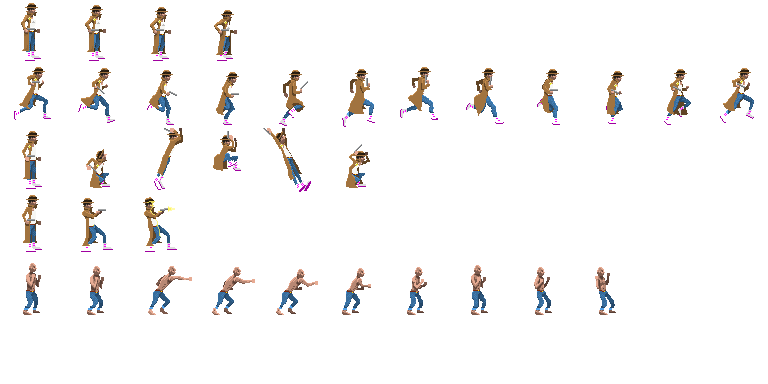
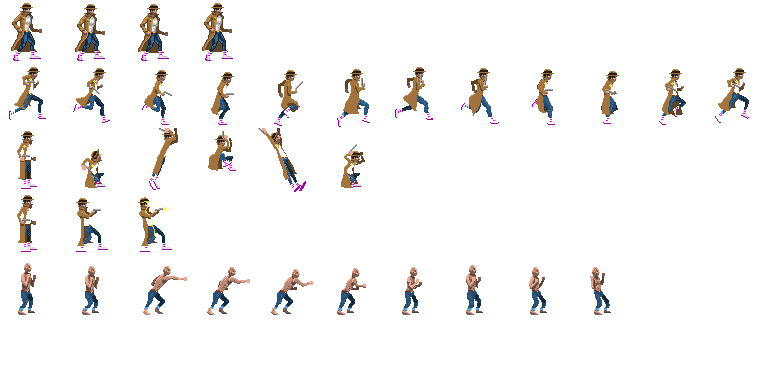
Update Cyber Cop idle animation, and program code for punching animation.

diff --git a/Assets/Scripts/PlayerMovementController.cs b/Assets/Scripts/PlayerMovementController.cs
@@ -3,10 +3,12 @@ using UnityEngine.SceneManagement;
 
 public class PlayerMovementController : MonoBehaviour
 {
+    public float PunchCoolDownTimeInSeconds = 1f;
     public float jumpForce = 150f;
     public float runningSpeed = 2.0f;
     public Gun Gun;
 
+    private float punchCoolDownTimeStamp;
     private bool grounded = true;
     private bool isFacingRight = true;
     private bool isTalking = false;
@@ -61,7 +63,9 @@ public class PlayerMovementController : MonoBehaviour
 
         if (Input.GetButton("Fire2"))
         {             
-            animator.SetBool("IsPunching", true);
+            if (CanPunch()) {
+                PunchTarget();
+            }
         }
     }
 
@@ -100,5 +104,17 @@ public class PlayerMovementController : MonoBehaviour
 
     void StopTalking() {
         isTalking = false;
+    }
+
+    
+	public bool CanPunch() {
+		return punchCoolDownTimeStamp <= Time.time;
+	}
+
+    void PunchTarget() {
+        if (CanPunch()) {
+		    punchCoolDownTimeStamp = Time.time + PunchCoolDownTimeInSeconds;
+            animator.SetTrigger("IsPunching");
+        }
     }
 }
